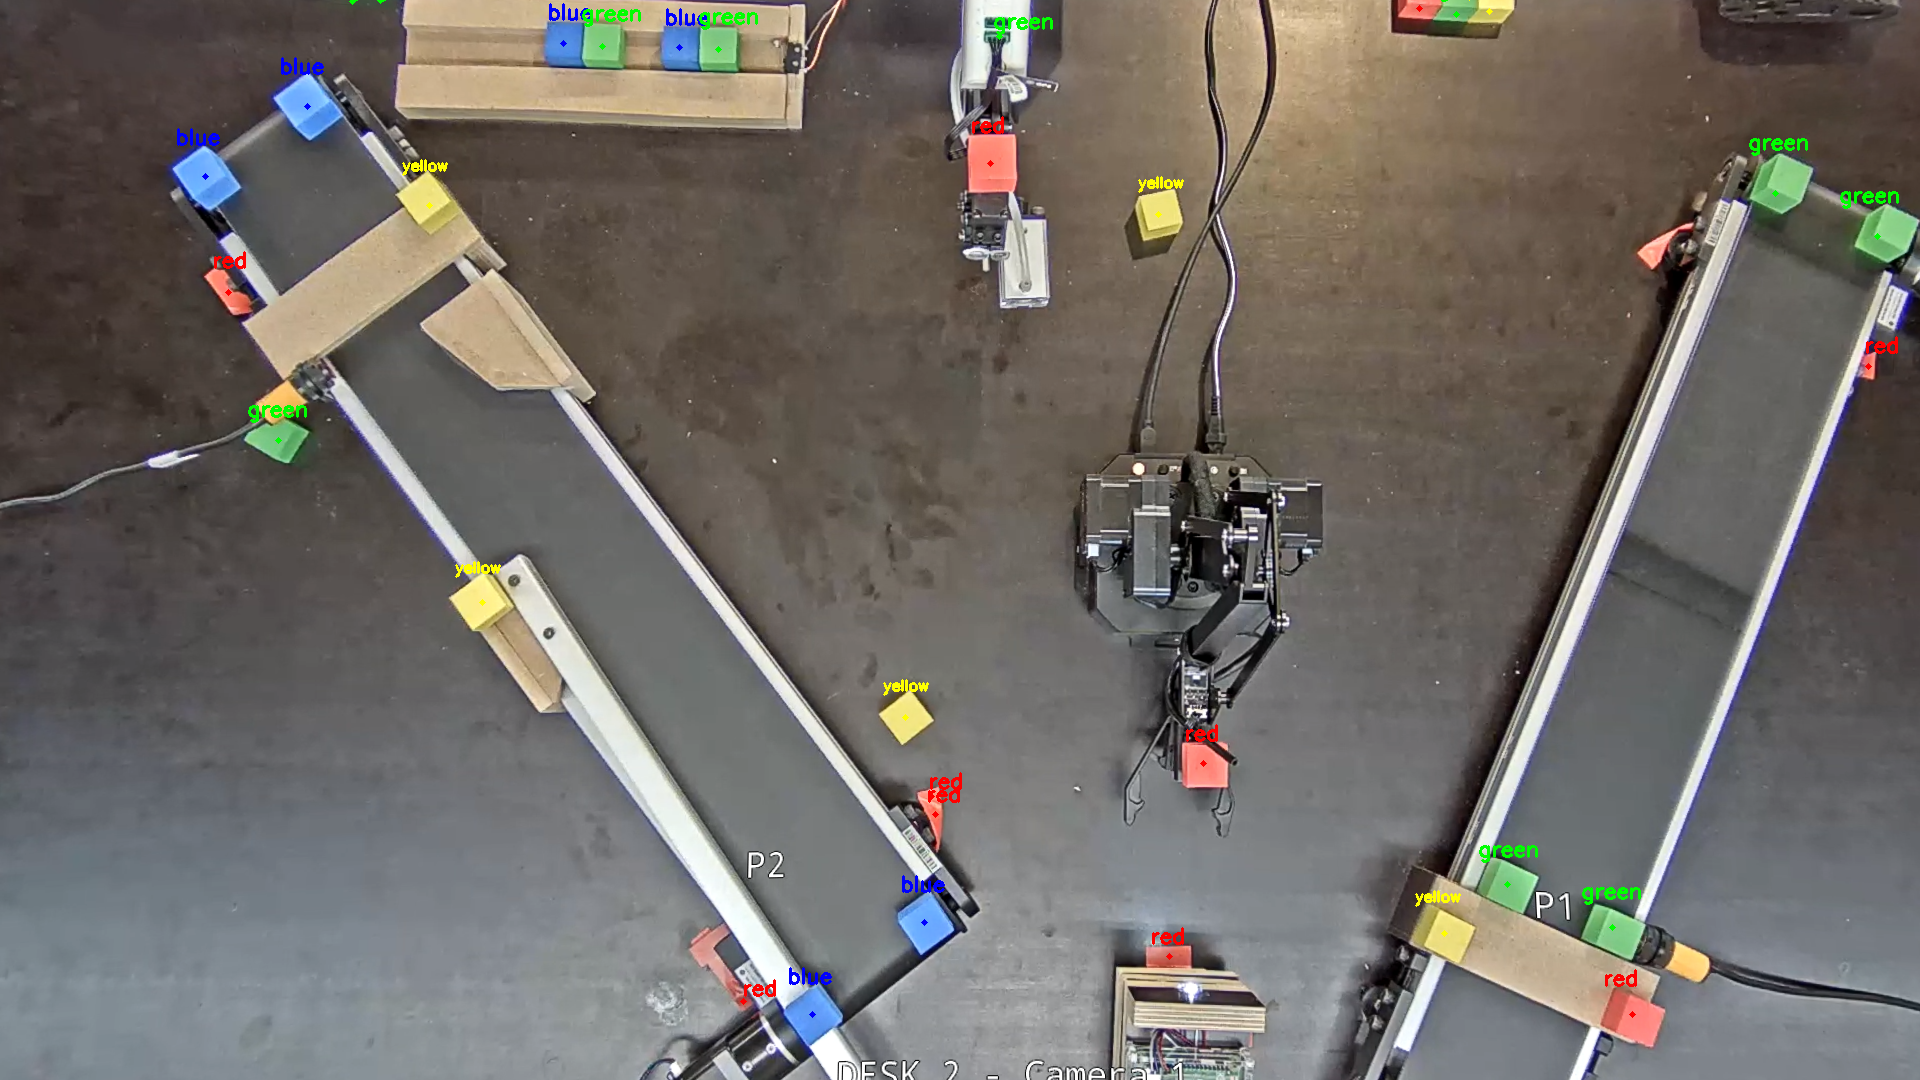
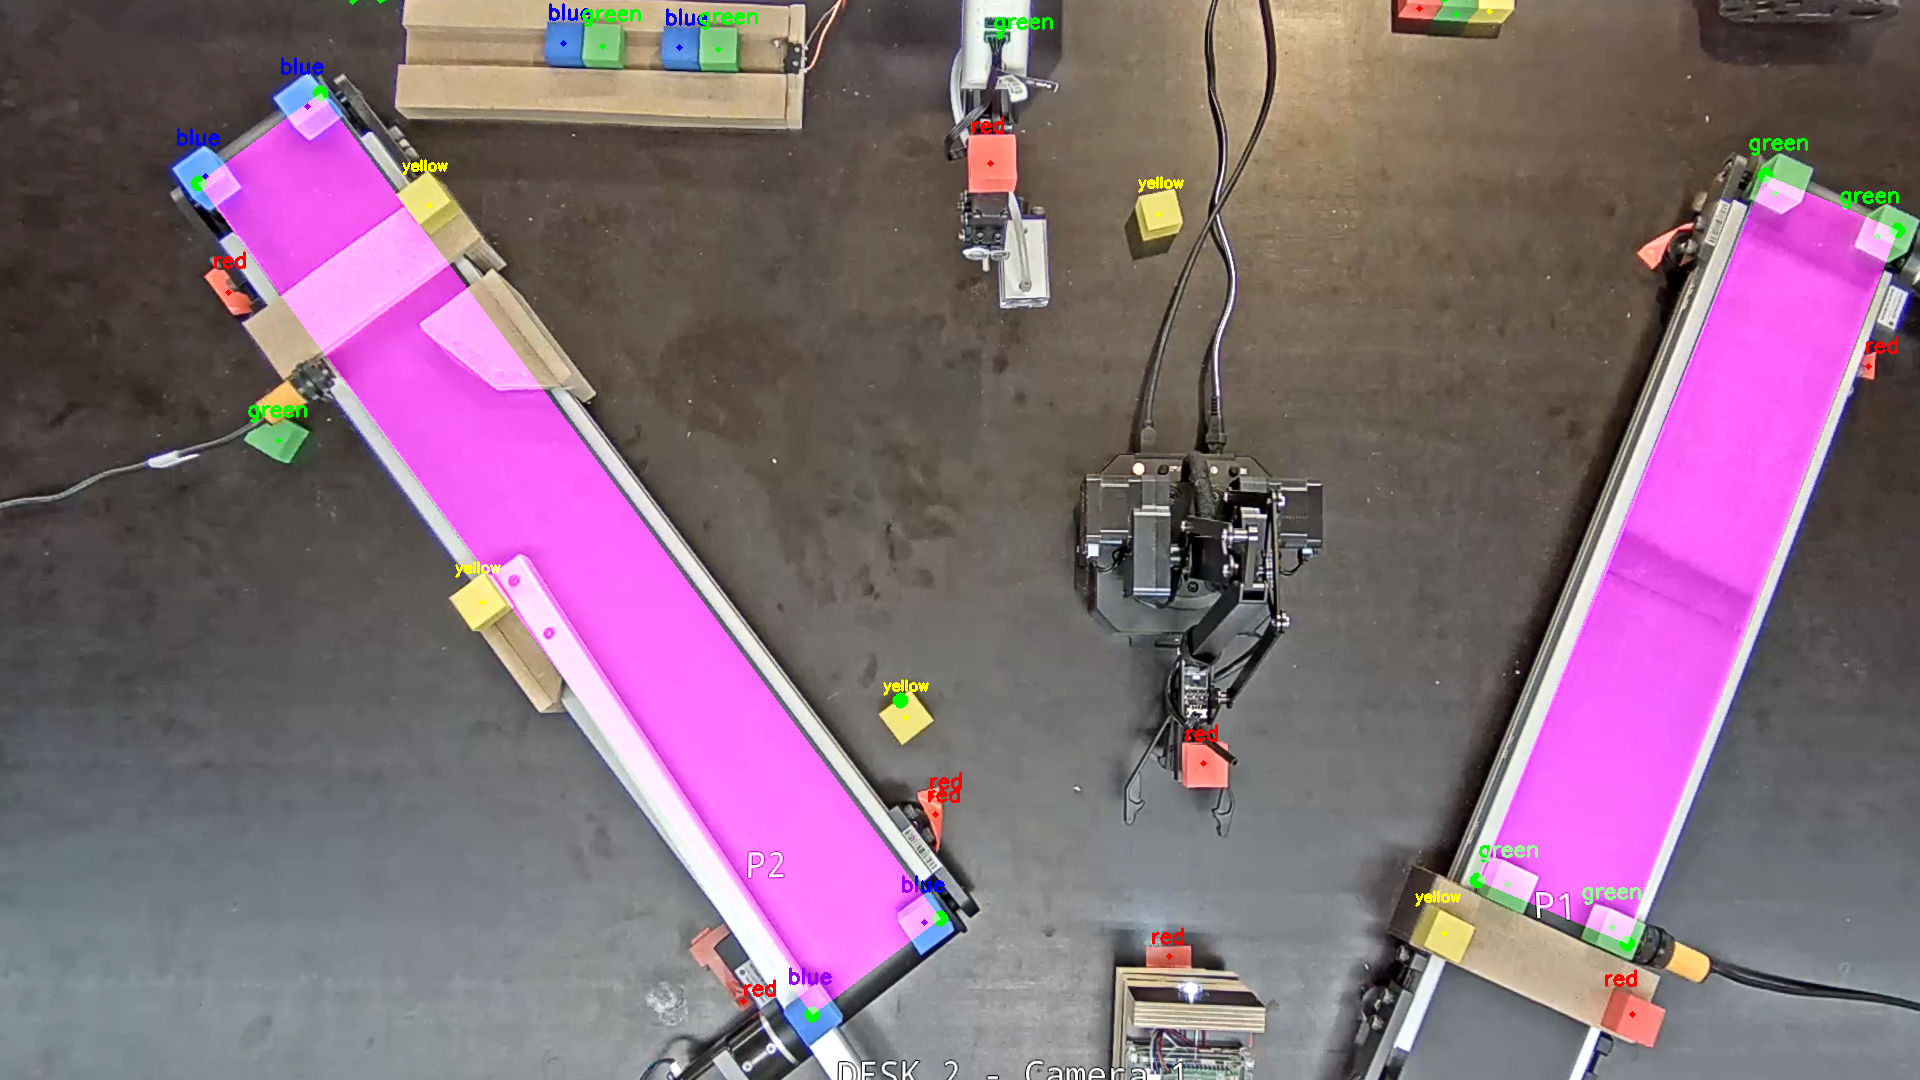
20220901

Changed region(s): [[0.0938, 0.0917, 0.5, 0.9472], [0.75, 0.1528, 1.0, 0.8861]]

diff --git a/src/main_linux.py b/src/main_linux.py
@@ -1,4 +1,5 @@
 from pickle import TRUE
+from re import X
 import cv2
 import numpy as np
 
@@ -11,20 +12,68 @@ pic_undistorted_path = "/home/jelly/Desktop/Monitor/img_undistorted.png"
 pic_detected_path = "/home/jelly/Desktop/Monitor/image_detection.png"
 keyboard_flag = 0
 
+center_x = 900
+center_y = 700
+
+HIGH = 1
+LOW = 0
+
+corner_left_1_x = 198
+corner_left_1_y = 183
+corner_left_2_x = 320
+corner_left_2_y = 93
+corner_left_3_x = 940
+corner_left_3_y = 918
+corner_left_4_x = 812
+corner_left_4_y = 1014
+
+corner_right_1_x = 1765
+corner_right_1_y = 175
+corner_right_2_x = 1897
+corner_right_2_y = 230
+corner_right_3_x = 1627
+corner_right_3_y = 943
+corner_right_4_x = 1477
+corner_right_4_y = 880
+
+def isInterArea(testPoint):#testPoint为待测点[x,y]
+    LBPoint_1 = [corner_left_4_x, corner_left_4_y]
+    LTPoint_1 = [corner_left_1_x, corner_left_1_y]
+    RTPoint_1 = [corner_left_2_x, corner_left_2_y]
+    RBPoint_1 = [corner_left_3_x, corner_left_3_y]
+    a = (LTPoint_1[0]-LBPoint_1[0])*(testPoint[1]-LBPoint_1[1])-(LTPoint_1[1]-LBPoint_1[1])*(testPoint[0]-LBPoint_1[0])
+    b = (RTPoint_1[0]-LTPoint_1[0])*(testPoint[1]-LTPoint_1[1])-(RTPoint_1[1]-LTPoint_1[1])*(testPoint[0]-LTPoint_1[0])
+    c = (RBPoint_1[0]-RTPoint_1[0])*(testPoint[1]-RTPoint_1[1])-(RBPoint_1[1]-RTPoint_1[1])*(testPoint[0]-RTPoint_1[0])
+    d = (LBPoint_1[0]-RBPoint_1[0])*(testPoint[1]-RBPoint_1[1])-(LBPoint_1[1]-RBPoint_1[1])*(testPoint[0]-RBPoint_1[0])
+    in_area_1 = (a>0 and b>0 and c>0 and d>0) or (a<0 and b<0 and c<0 and d<0)
+
+    LBPoint_2 = [corner_right_4_x, corner_right_4_y]
+    LTPoint_2 = [corner_right_1_x, corner_right_1_y]
+    RTPoint_2 = [corner_right_2_x, corner_right_2_y]
+    RBPoint_2 = [corner_right_3_x, corner_right_3_y]
+    a = (LTPoint_2[0]-LBPoint_2[0])*(testPoint[1]-LBPoint_2[1])-(LTPoint_2[1]-LBPoint_2[1])*(testPoint[0]-LBPoint_2[0])
+    b = (RTPoint_2[0]-LTPoint_2[0])*(testPoint[1]-LTPoint_2[1])-(RTPoint_2[1]-LTPoint_2[1])*(testPoint[0]-LTPoint_2[0])
+    c = (RBPoint_2[0]-RTPoint_2[0])*(testPoint[1]-RTPoint_2[1])-(RBPoint_2[1]-RTPoint_2[1])*(testPoint[0]-RTPoint_2[0])
+    d = (LBPoint_2[0]-RBPoint_2[0])*(testPoint[1]-RBPoint_2[1])-(LBPoint_2[1]-RBPoint_2[1])*(testPoint[0]-RBPoint_2[0])
+    print(a,b,c,d)
+    in_area_2 = (a>0 and b>0 and c>0 and d>0) or (a<0 and b<0 and c<0 and d<0)
+
+    if in_area_1 or in_area_2:
+        return True
+    else:
+        return False
+
+
 def get_screenshot():
     pic = ImageGrab.grab()
     pic.save(pic_grab_path)
 
 
 def abc(x):
-    a = keyboard.KeyboardEvent('down', 28, 'enter')
-    #按键事件a为按下enter键，第二个参数如果不知道每个按键的值就随便写，
-    #如果想知道按键的值可以用hook绑定所有事件后，输出x.scan_code即可
     b = keyboard.KeyboardEvent('down', 25, 'p')
-    c = keyboard.KeyboardEvent('down', 16, 'q')
+
     
     if x.event_type == 'down' and x.name == b.name:
-        print("你按下了p键")
 
         # get_screenshot()
 
@@ -56,7 +105,15 @@ def undistort(frame):
     mapx, mapy = cv2.initUndistortRectifyMap(k, d, None, k, (w, h), 5)
     return cv2.remap(frame, mapx, mapy, cv2.INTER_LINEAR)
 
+def draw_points(image, x, y):
+    image = cv2.line(image,(x+3,y),(x-3,y),(0, 255, 0),10)
+    image = cv2.line(image,(x,y+3),(x,y-3),(0, 255, 0),10)
 
+def convert_array(point_list):
+    points = np.array(point_list)
+    points = points.reshape(-1,3)
+    points = points[np.lexsort(points[:,:-1:].T)] # sort according to the column location
+    return points
 
 
 def detect():
@@ -72,7 +129,6 @@ def detect():
     lower_green = np.array([35,43,46])      # define lower bound of "green"
     higher_green = np.array([77,255,255])   # define higher bound of "green"
 
-    cap = cv2.VideoCapture(0)
 
     point_list = [] # global point list
     yellow_point_list = [] # yellow point list
@@ -80,15 +136,10 @@ def detect():
     blue_point_list = [] # blue point list
     green_point_list = [] # green point list
 
-# while True:
-    # ret, image = cap.read()
 
     image = cv2.imread(pic_undistorted_path)
-    # image = ImageGrab.grab(bbox=(100, 100, 580, 400))
-    # image = np.array(image)
-    # image = cv2.cvtColor(image, cv2.COLOR_RGB2BGR)  # transfer color space from BGR to RGB
-    # image = cv2.resize(image, dsize=(1000, 600)) # set the window in a fixed size (648, 486).
 
+    image = cv2.resize(image, dsize=(1920, 1080)) # set the window in a fixed size (1920, 1080).
 
     img_hsv = cv2.cvtColor(image, cv2.COLOR_BGR2HSV)
     img_erode = cv2.erode(img_hsv, None, iterations=2)
@@ -121,8 +172,16 @@ def detect():
         cy = int(rect[0][1])
         point_list.append(cx)
         point_list.append(cy)
+        if(isInterArea([cx,cy])):
+            point_list.append(HIGH)
+        else:
+            point_list.append(LOW)
         red_point_list.append(cx)
         red_point_list.append(cy)
+        if(isInterArea([cx,cy])):
+            red_point_list.append(HIGH)
+        else:
+            red_point_list.append(LOW)
         # print(rect[2])#打印旋转角度
         # image = cv2.drawContours(image, [box], 0, (0, 0, 255), 3)#画旋转方框
 
@@ -144,8 +203,16 @@ def detect():
         cy = int(rect[0][1])
         point_list.append(cx)
         point_list.append(cy)
+        if(isInterArea([cx,cy])):
+            point_list.append(HIGH)
+        else:
+            point_list.append(LOW)
         blue_point_list.append(cx)
         blue_point_list.append(cy)
+        if(isInterArea([cx,cy])):
+            blue_point_list.append(HIGH)
+        else:
+            blue_point_list.append(LOW)
         # print(rect[2]) #打印旋转角度
         # image = cv2.drawContours(image, [box], 0, (255, 0, 0), 3) #画旋转方框
 
@@ -167,8 +234,16 @@ def detect():
         cy = int(rect[0][1])
         point_list.append(cx)
         point_list.append(cy)
+        if(isInterArea([cx,cy])):
+            point_list.append(HIGH)
+        else:
+            point_list.append(LOW)
         yellow_point_list.append(cx)
         yellow_point_list.append(cy)
+        if(isInterArea([cx,cy])):
+            yellow_point_list.append(HIGH)
+        else:
+            yellow_point_list.append(LOW)
         # print(rect[2])#打印旋转角度
 
         cnt_len = cv2.arcLength(cnt[0], True)
@@ -196,8 +271,16 @@ def detect():
         cy = int(rect[0][1])
         point_list.append(cx)
         point_list.append(cy)
+        if(isInterArea([cx,cy])):
+            point_list.append(HIGH)
+        else:
+            point_list.append(LOW)
         green_point_list.append(cx)
         green_point_list.append(cy)
+        if(isInterArea([cx,cy])):
+            green_point_list.append(HIGH)
+        else:
+            green_point_list.append(LOW)
         # print(cx, cy)
         # print(rect[2])#打印旋转角度
         # image = cv2.drawContours(image, [box], 0, (0, 255, 0), 3)#画旋转方框
@@ -208,24 +291,47 @@ def detect():
         # cv2.rectangle(image, (x, y), (x + w, y + h), (0, 255, 0), 2)  # 将检测到的颜色框起来
         cv2.putText(image, 'green', (x, y - 5), font, 0.7, (0, 255, 0), 2)
 
-    # cv2.namedWindow("image", cv2.WINDOW_AUTOSIZE)
-    # cv2.imshow("image", image)
-    # if cv2.waitKey(1) & 0xFF == ord('q'):
-    #     # cap.release()
-    #     cv2.destroyAllWindows()
-    #     break
+######################     draw some lines/points to help debug STARTs    #####################
+
+    draw_points(image, center_x, center_y)
+    draw_points(image, corner_left_1_x, corner_left_1_y)
+    draw_points(image, corner_left_2_x, corner_left_2_y)
+    draw_points(image, corner_left_3_x, corner_left_3_y)
+    draw_points(image, corner_left_4_x, corner_left_4_y)
+    draw_points(image, corner_right_1_x, corner_right_1_y)
+    draw_points(image, corner_right_2_x, corner_right_2_y)
+    draw_points(image, corner_right_3_x, corner_right_3_y)
+    draw_points(image, corner_right_4_x, corner_right_4_y)
+
+    pts_1 = np.array([[corner_left_4_x, corner_left_4_y],[corner_left_1_x, corner_left_1_y],[corner_left_2_x, corner_left_2_y],[corner_left_3_x, corner_left_3_y]], np.int32)
+    pts_1 = pts_1.reshape((-1, 1, 2))
+    zeros = np.zeros((image.shape), dtype=np.uint8)
+    mask_1 = cv2.fillConvexPoly(zeros, pts_1, (255,0,255))
+
+    pts_2 = np.array([[corner_right_4_x, corner_right_4_y],[corner_right_1_x, corner_right_1_y],[corner_right_2_x, corner_right_2_y],[corner_right_3_x, corner_right_3_y]], np.int32)
+    pts_2 = pts_2.reshape((-1, 1, 2))
+    mask_2 = cv2.fillConvexPoly(zeros, pts_2, (255,0,255))
+    image = 0.3*mask_1 + 0.3*mask_2 + image
+   
     cv2.imwrite(pic_detected_path, image)
-    point_array = np.array(point_list)
-    point_array = point_array.reshape(-1,2)
-    red_point_array = np.array(red_point_list)
-    red_point_array = red_point_array.reshape(-1,2)
-    blue_point_array = np.array(blue_point_list)
-    blue_point_array = blue_point_array.reshape(-1,2)
-    yellow_point_array = np.array(yellow_point_list)
-    yellow_point_array = yellow_point_array.reshape(-1,2)
-    green_point_array = np.array(green_point_list)
-    green_point_array = green_point_array.reshape(-1,2)
-    print(green_point_array[np.lexsort(green_point_array.T)])
+
+######################     draw some lines/points to help debug ENDs     #####################
+
+
+
+
+    point_array = convert_array(point_list)
+    red_point_array = convert_array(red_point_list)
+    blue_point_array = convert_array(blue_point_list)
+    yellow_point_array = convert_array(yellow_point_list)
+    green_point_array = convert_array(green_point_list)
+
+    # print(green_point_array)
+    # for x in green_point_array:
+    #     print(x[1])
+
+    # print(isInterArea([1700,600]))
+    print(point_array)
 
 
 if __name__=="__main__":  
